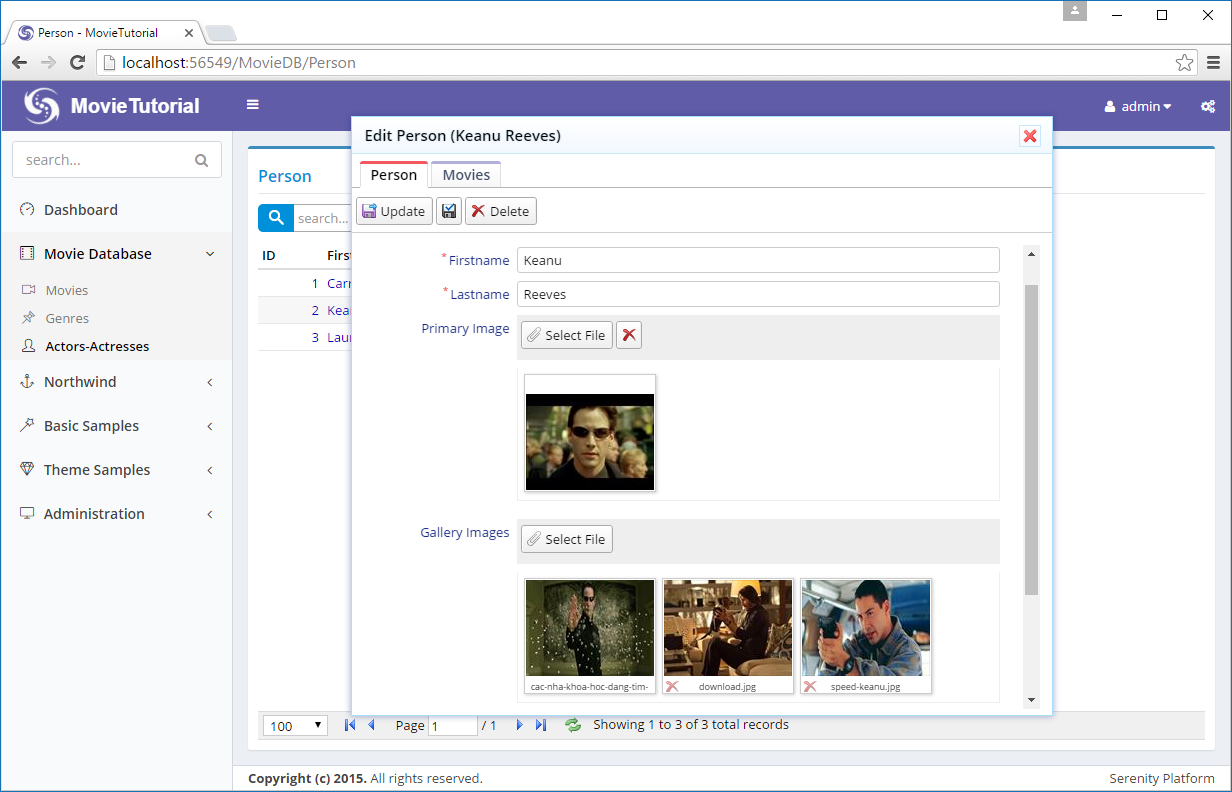
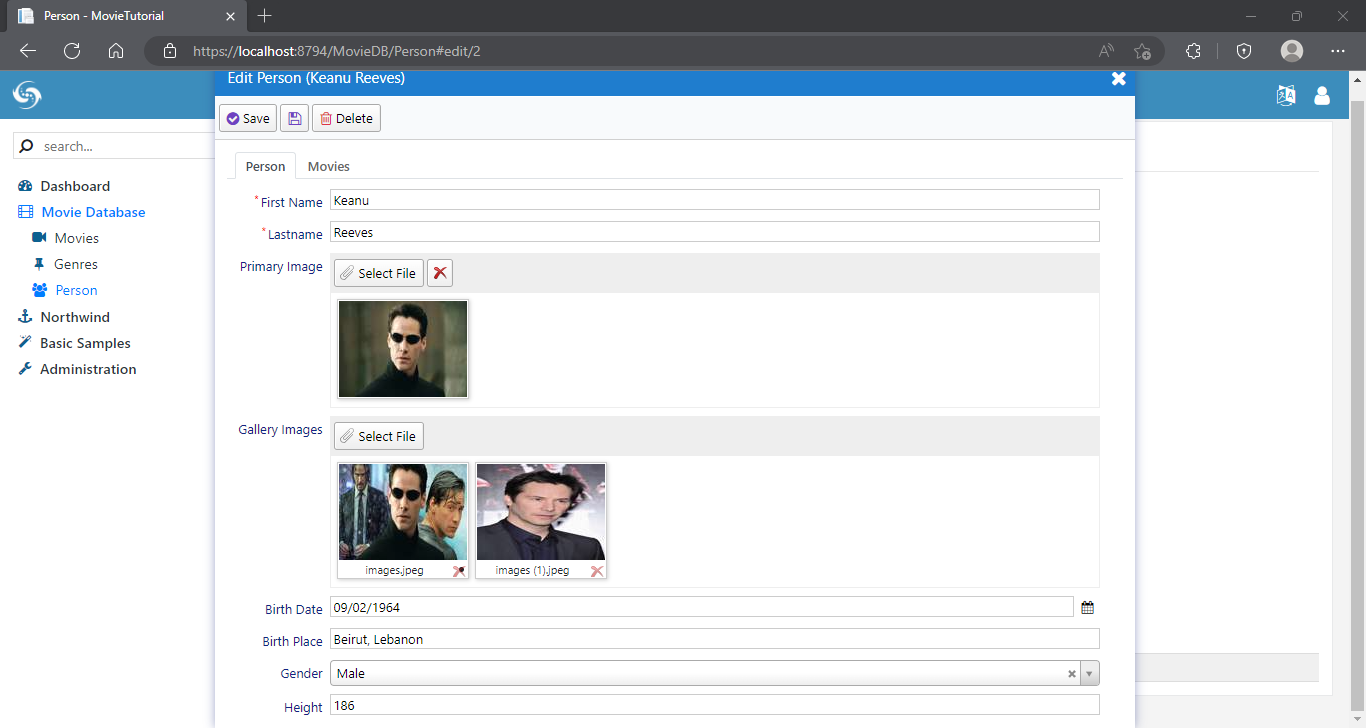
update adding_primary_and_gallery_images

diff --git a/tutorials/movies/adding_primary_and_gallery_images.md b/tutorials/movies/adding_primary_and_gallery_images.md
@@ -7,8 +7,8 @@ using FluentMigrator;
 
 namespace MovieTutorial.Migrations.DefaultDB
 {
-    [Migration(20160603_205900)]
-    public class DefaultDB_20160603_205900_PersonMovieImages : Migration
+    [Migration(20221122_115100)]
+    public class DefaultDB_20221122_115100_PersonMovieImages : AutoReversingMigration
     {
         public override void Up()
         {
@@ -19,10 +19,6 @@ namespace MovieTutorial.Migrations.DefaultDB
             Alter.Table("Movie").InSchema("mov")
                 .AddColumn("PrimaryImage").AsString(100).Nullable()
                 .AddColumn("GalleryImages").AsString(int.MaxValue).Nullable();
-        }
-
-        public override void Down()
-        {
         }
     }
 }
@@ -101,7 +97,7 @@ Here we specify that these fields will be handled by *ImageUploadEditor* and *Mu
 
 FilenameFormat specifies the naming of uploaded files. For example, Person primary image will be uploaded to a folder under *App_Data/upload/Person/PrimaryImage/*.
 
-> You may change upload root (*App_Data/upload*) to anything you like by modifying  *UploadSettings* appSettings key in web.config.
+> You may change upload root (*App_Data/upload*) to anything you like by modifying  *UploadSettings* appSettings key in appsetttings.json.
 
 `~` at the end of FilenameFormat is a shortcut for the automatic naming scheme `{1:00000}/{0:00000000}_{2}`.
 
@@ -129,14 +125,17 @@ namespace MovieTutorial.MovieDB.Forms
     //...
     public class PersonForm
     {
-        public String Firstname { get; set; }
-        public String Lastname { get; set; }
+        [Tab("Person")]
+        public string FirstName { get; set; }
+        public string Lastname { get; set; }
         public String PrimaryImage { get; set; }
         public String GalleryImages { get; set; }
         public DateTime BirthDate { get; set; }
-        public String BirthPlace { get; set; }
+        public string BirthPlace { get; set; }
         public Gender Gender { get; set; }
-        public Int32 Height { get; set; }
+        public int Height { get; set; }
+        [Tab("Movies"), IgnoreName, PersonMovieGrid, LabelWidth("0")]
+        public string MoviesGrid { get; set; }
     }
 }
 ```
@@ -180,6 +179,23 @@ This is what we get now:
 
 > ImageUploadEditor stores file name directly in a string field, while MultipleImageUpload editor stores file names in a string field with JSON array format.
 
+### Use form as a panel
+
+As you can see in previous picture we have too much properties now. Lets turn this form to a panel.
+
+Add *panel* decorator to PersonDialog.ts:
+
+```ts
+//...
+
+@Decorators.registerClass("MovieTutorial.MovieDB.PersonDialog")
+@Decorators.panel()
+export class PersonDialog extends EntityDialog<PersonRow, any> {
+    //...
+}
+```
+
+![Person dialog as panel](img/mdb_person_panel.png)
 
 ### Removing Northwind and Other Samples
 
